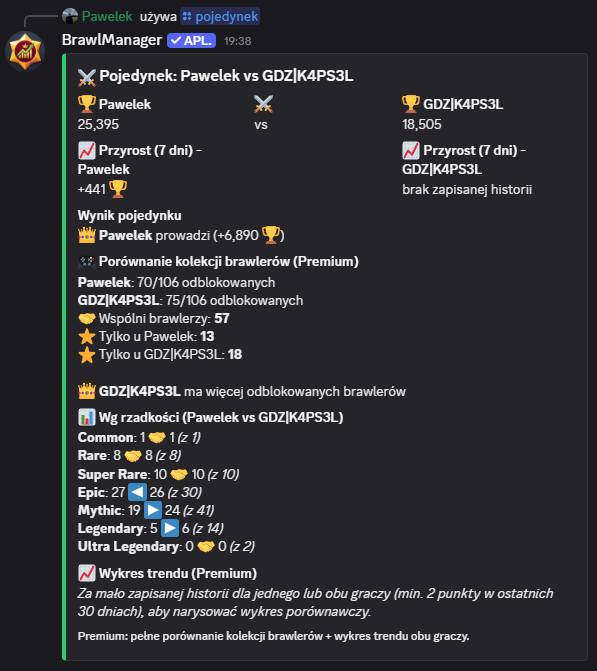
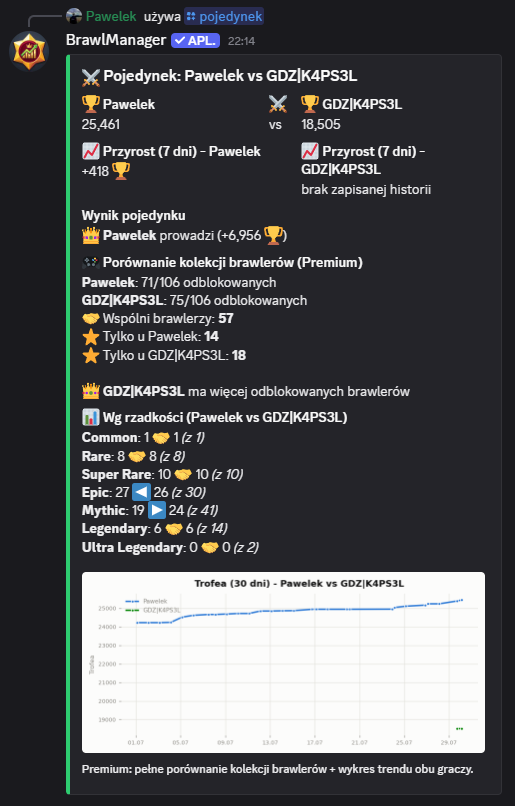
Fix EN nav pigulki, usun badge Nowosc, nowy zrzut /pojedynek Premium, opis hero PL
Co: pigulki "Jump to a command" na /Commands/ pokazuja teraz angielskie
slugi (nowe klucze i18n *_nav) zamiast polskich; usuniety badge "Nowosc"/
"New" (3 wystapienia + martwy klucz/CSS); podmieniony zrzut Premium /pojedynek
na nowy, z realnym wykresem; skrocony opis hero (PL) bez wzmianki o zaleglych
zrzutach EN - wartosc EN swiadomie nietknieta (zrzuty EN faktycznie jeszcze
nie sa live, wiec stary tekst tam nadal prawdziwy).

Claude-Session: https://claude.ai/code/session_017WigTiHYHNY3LLcapJgBC8

diff --git a/assets/komendy-page.js b/assets/komendy-page.js
@@ -54,9 +54,8 @@
             <div class="eyebrow" data-i18n="komendy.hero_eyebrow">🖥 Realny wygląd na Discordzie</div>
             <h1 data-i18n="komendy.hero_title">Wszystkie komendy — dokładnie tak, jak je zobaczysz</h1>
             <p data-i18n="komendy.hero_body">
-                Znajdziesz tu opis każdej komendy bota z realnymi zrzutami ekranu z Discorda. Wersja
-                angielska zrzutów jest w przygotowaniu — do tego czasu angielskie sekcje mają na razie
-                sam opis, oznaczony „📸 Zrzuty ekranu wkrótce”.
+                Znajdziesz tu opis każdej komendy wraz z zrzutami ekranu z Discorda. Komenda w wersji
+                free i premium pokazane są w obu wariantach.
             </p>
         </div>
     </section>
@@ -93,27 +92,27 @@
         </div>
         <div class="command-nav-collapsible" id="commandNavCollapsible">
         <div class="command-nav">
-            <a href="#sprawdz_puchary">/sprawdz_puchary</a>
-            <a href="#profil_bs">/profil_bs</a>
-            <a href="#brawlerzy">/brawlerzy</a>
-            <a href="#ranking_klanu">/ranking_klanu</a>
-            <a href="#moja_pozycja">/moja_pozycja</a>
-            <a href="#moj_cel">/moj_cel</a>
-            <a href="#moje_osiagniecia">/moje_osiagniecia</a>
-            <a href="#pojedynek">/pojedynek</a>
-            <a href="#historia_pucharow">/historia_pucharow</a>
-            <a href="#rotacja_map">/rotacja_map</a>
-            <a href="#support">/support</a>
-            <a href="#ustaw_klan">/ustaw_klan</a>
-            <a href="#ustaw_prog_pucharow">/ustaw_prog_pucharow</a>
-            <a href="#ustaw_role_rang">/ustaw_role_rang</a>
-            <a href="#ustaw_kanal_raportow">/ustaw_kanal_raportow</a>
-            <a href="#ustaw_kanal_rotacji">/ustaw_kanal_rotacji</a>
-            <a href="#ustaw_harmonogram_raportow">/ustaw_harmonogram_raportow</a>
-            <a href="#panel_weryfikacji">/panel_weryfikacji</a>
-            <a href="#czystka_klanu">/czystka_klanu</a>
-            <a href="#ustaw_wyglad">/ustaw_wyglad</a>
-            <a href="#ustaw_jezyk">/ustaw_jezyk</a>
+            <a href="#sprawdz_puchary" data-i18n="komendy.sprawdz_puchary_nav">/sprawdz_puchary</a>
+            <a href="#profil_bs" data-i18n="komendy.profil_bs_nav">/profil_bs</a>
+            <a href="#brawlerzy" data-i18n="komendy.brawlerzy_nav">/brawlerzy</a>
+            <a href="#ranking_klanu" data-i18n="komendy.ranking_klanu_nav">/ranking_klanu</a>
+            <a href="#moja_pozycja" data-i18n="komendy.moja_pozycja_nav">/moja_pozycja</a>
+            <a href="#moj_cel" data-i18n="komendy.moj_cel_nav">/moj_cel</a>
+            <a href="#moje_osiagniecia" data-i18n="komendy.moje_osiagniecia_nav">/moje_osiagniecia</a>
+            <a href="#pojedynek" data-i18n="komendy.pojedynek_nav">/pojedynek</a>
+            <a href="#historia_pucharow" data-i18n="komendy.historia_pucharow_nav">/historia_pucharow</a>
+            <a href="#rotacja_map" data-i18n="komendy.rotacja_map_nav">/rotacja_map</a>
+            <a href="#support" data-i18n="komendy.support_nav">/support</a>
+            <a href="#ustaw_klan" data-i18n="komendy.ustaw_klan_nav">/ustaw_klan</a>
+            <a href="#ustaw_prog_pucharow" data-i18n="komendy.ustaw_prog_pucharow_nav">/ustaw_prog_pucharow</a>
+            <a href="#ustaw_role_rang" data-i18n="komendy.ustaw_role_rang_nav">/ustaw_role_rang</a>
+            <a href="#ustaw_kanal_raportow" data-i18n="komendy.ustaw_kanal_raportow_nav">/ustaw_kanal_raportow</a>
+            <a href="#ustaw_kanal_rotacji" data-i18n="komendy.ustaw_kanal_rotacji_nav">/ustaw_kanal_rotacji</a>
+            <a href="#ustaw_harmonogram_raportow" data-i18n="komendy.ustaw_harmonogram_raportow_nav">/ustaw_harmonogram_raportow</a>
+            <a href="#panel_weryfikacji" data-i18n="komendy.panel_weryfikacji_nav">/panel_weryfikacji</a>
+            <a href="#czystka_klanu" data-i18n="komendy.czystka_klanu_nav">/czystka_klanu</a>
+            <a href="#ustaw_wyglad" data-i18n="komendy.ustaw_wyglad_nav">/ustaw_wyglad</a>
+            <a href="#ustaw_jezyk" data-i18n="komendy.ustaw_jezyk_nav">/ustaw_jezyk</a>
         </div>
         </div>
     </div>
@@ -168,7 +167,7 @@
                 <!-- /brawlerzy -->
                 <div class="command-block command-block--text-only" id="brawlerzy" data-has-shots="1">
                     <div class="command-block-copy">
-                        <div class="command-tag"><code data-i18n="komendy.brawlerzy_code">/brawlerzy [tag_gracza]</code> <span class="badge badge-new" data-i18n="common.badge_new">🆕 Nowość</span></div>
+                        <div class="command-tag"><code data-i18n="komendy.brawlerzy_code">/brawlerzy [tag_gracza]</code></div>
                         <p data-i18n="komendy.brawlerzy_desc">
                             Generuje obraz siatki wszystkich brawlerów w grze — odblokowani przez gracza kolorowo
                             (z odznaką rangi albo poziomem mocy w rogu), zablokowani wyszarzeni z ikoną kłódki.
@@ -247,7 +246,7 @@
                 <!-- /moje_osiagniecia -->
                 <div class="command-block command-block--text-only" id="moje_osiagniecia" data-has-shots="1">
                     <div class="command-block-copy">
-                        <div class="command-tag"><code data-i18n="komendy.moje_osiagniecia_code">/moje_osiagniecia [tag_gracza]</code> <span class="badge badge-new" data-i18n="common.badge_new">🆕 Nowość</span></div>
+                        <div class="command-tag"><code data-i18n="komendy.moje_osiagniecia_code">/moje_osiagniecia [tag_gracza]</code></div>
                         <p data-i18n="komendy.moje_osiagniecia_desc">Odznaki i osiągnięcia gracza w klanie, liczone automatycznie z historii bota — m.in. najdłuższa seria na plusie, rekordowy dzień, staż w klanie, % ukończenia kolekcji brawlerów, najlepszy tydzień i kamienie milowe rekordu trofeów. Całkowicie darmowe.</p>
                     </div>
                     <div class="command-block-shots" hidden>
@@ -472,7 +471,7 @@
                 <!-- /ustaw_jezyk -->
                 <div class="command-block command-block--text-only" id="ustaw_jezyk" data-has-shots="1">
                     <div class="command-block-copy">
-                        <div class="command-tag"><code data-i18n="komendy.ustaw_jezyk_code">/ustaw_jezyk [jezyk]</code> <span class="badge badge-new" data-i18n="common.badge_new">🆕 Nowość</span> <span class="badge badge-pending" data-i18n="common.badge_pending">📸 Zrzuty ekranu wkrótce</span></div>
+                        <div class="command-tag"><code data-i18n="komendy.ustaw_jezyk_code">/ustaw_jezyk [jezyk]</code> <span class="badge badge-pending" data-i18n="common.badge_pending">📸 Zrzuty ekranu wkrótce</span></div>
                         <p data-i18n="komendy.ustaw_jezyk_desc">Ustawia język odpowiedzi bota na tym serwerze — polski albo angielski (domyślnie polski). Wszystkie nazwy i opisy komend mają też natywną angielską lokalizację Discorda, niezależną od tego ustawienia.</p>
                     </div>
                     <div class="command-block-shots" hidden>
@@ -542,7 +541,7 @@
     "komendy.hero_eyebrow": { pl: "🖥 Realny wygląd na Discordzie", en: "🖥 The real look on Discord" },
     "komendy.hero_title": { pl: "Wszystkie komendy — dokładnie tak, jak je zobaczysz", en: "Every command — exactly as you'll see it" },
     "komendy.hero_body": {
-      pl: "Znajdziesz tu opis każdej komendy bota z realnymi zrzutami ekranu z Discorda. Wersja angielska zrzutów jest w przygotowaniu — do tego czasu angielskie sekcje mają na razie sam opis, oznaczony „📸 Zrzuty ekranu wkrótce”.",
+      pl: "Znajdziesz tu opis każdej komendy wraz z zrzutami ekranu z Discorda. Komenda w wersji free i premium pokazane są w obu wariantach.",
       en: "You'll find a description of every bot command here, with real Discord screenshots. English-language screenshots are still being recorded — until then, English sections just show a description, marked \"📸 Screenshots coming soon\".",
     },
     "komendy.info_note_body": {
@@ -562,6 +561,7 @@
     "komendy.lightbox_close_aria": { pl: "Zamknij podgląd zrzutu ekranu", en: "Close screenshot preview" },
 
     "komendy.sprawdz_puchary_code": { pl: "/sprawdz_puchary [tag_gracza]", en: "/check_trophies [player_tag]" },
+    "komendy.sprawdz_puchary_nav": { pl: "/sprawdz_puchary", en: "/check_trophies" },
     "komendy.sprawdz_puchary_desc": {
       pl: "Sprawdza, czy gracz spełnia próg pucharowy tego serwera i czy należy do przypisanego klanu.",
       en: "Checks whether a player meets this server's trophy threshold and belongs to the linked clan.",
@@ -576,24 +576,28 @@
     },
 
     "komendy.profil_bs_code": { pl: "/profil_bs [tag_gracza]", en: "/bs_profile [player_tag]" },
+    "komendy.profil_bs_nav": { pl: "/profil_bs", en: "/bs_profile" },
     "komendy.profil_bs_desc": {
       pl: "Karta gracza: poziom, rekordowe trofea, zwycięstwa i top 3 brawlery. Premium dorzuca dodatkowe pole z progresem od pierwszego dnia śledzenia historii.",
       en: "Player card: level, record trophies, wins, and top 3 brawlers. Premium adds an extra field showing progress since the first day of tracked history.",
     },
 
     "komendy.brawlerzy_code": { pl: "/brawlerzy [tag_gracza]", en: "/brawlers [player_tag]" },
+    "komendy.brawlerzy_nav": { pl: "/brawlerzy", en: "/brawlers" },
     "komendy.brawlerzy_desc": {
       pl: "Generuje obraz siatki wszystkich brawlerów w grze — odblokowani przez gracza kolorowo (z odznaką rangi albo poziomem mocy w rogu), zablokowani wyszarzeni z ikoną kłódki. Menu pod obrazkiem pozwala przesortować siatkę wg rangi, poziomu mocy, rzadkości albo najwyższych trofeów. Całkowicie darmowe.",
       en: "Generates an image grid of every brawler in the game — the ones the player has unlocked shown in color (with a rank badge or power level in the corner), locked ones grayed out with a lock icon. A menu under the image lets you re-sort the grid by rank, power level, rarity, or highest trophies. Completely free.",
     },
 
     "komendy.ranking_klanu_code": { pl: "/ranking_klanu", en: "/clan_top" },
+    "komendy.ranking_klanu_nav": { pl: "/ranking_klanu", en: "/clan_top" },
     "komendy.ranking_klanu_desc": {
       pl: "Pokazuje pierwszą dziesiątkę klanu posortowaną wg trofeów, wg tagu klanu skonfigurowanego przez admina (<code>/ustaw_klan</code>).",
       en: "Shows the clan's top 10 sorted by trophies, based on the clan tag configured by the admin (<code>/set_clan</code>).",
     },
 
     "komendy.moja_pozycja_code": { pl: "/moja_pozycja [tag_gracza]", en: "/my_rank [player_tag]" },
+    "komendy.moja_pozycja_nav": { pl: "/moja_pozycja", en: "/my_rank" },
     "komendy.moja_pozycja_desc": {
       pl: "Twoja aktualna pozycja w rankingu klanu wg aktualnych trofeów i dystans do osoby bezpośrednio wyżej.",
       en: "Your current position in the clan ranking by current trophies, and the gap to the player directly above you.",
@@ -608,6 +612,7 @@
     },
 
     "komendy.moj_cel_code": { pl: "/moj_cel [tag_gracza] [cel_puchary]", en: "/my_goal [player_tag] [goal_trophies]" },
+    "komendy.moj_cel_nav": { pl: "/moj_cel", en: "/my_goal" },
     "komendy.moj_cel_desc": {
       pl: "Ustawia Twój osobisty cel pucharowy i pokazuje pasek postępu (kolor paska/embeda zależny od % ukończenia) oraz zmianę od wczoraj.",
       en: "Sets your personal trophy goal and shows a progress bar (bar/embed color depends on % completion) plus the change since yesterday.",
@@ -622,12 +627,14 @@
     },
 
     "komendy.moje_osiagniecia_code": { pl: "/moje_osiagniecia [tag_gracza]", en: "/my_achievements [player_tag]" },
+    "komendy.moje_osiagniecia_nav": { pl: "/moje_osiagniecia", en: "/my_achievements" },
     "komendy.moje_osiagniecia_desc": {
       pl: "Odznaki i osiągnięcia gracza w klanie, liczone automatycznie z historii bota — m.in. najdłuższa seria na plusie, rekordowy dzień, staż w klanie, % ukończenia kolekcji brawlerów, najlepszy tydzień i kamienie milowe rekordu trofeów. Całkowicie darmowe.",
       en: "A player's badges and achievements in the clan, calculated automatically from the bot's history — including longest positive streak, record day, time in the clan, brawler collection completion %, best week, and trophy record milestones. Completely free.",
     },
 
     "komendy.pojedynek_code": { pl: "/pojedynek [tag_gracza_1] [tag_gracza_2]", en: "/duel [player_tag_1] [player_tag_2]" },
+    "komendy.pojedynek_nav": { pl: "/pojedynek", en: "/duel" },
     "komendy.pojedynek_desc": {
       pl: "Porównanie 1:1 dwóch graczy klanu — aktualne trofea, kto prowadzi i przyrost z ostatniego tygodnia każdego z nich.",
       en: "A 1:1 comparison of two clan members — current trophies, who's leading, and each player's gain from the last week.",
@@ -642,78 +649,91 @@
     },
 
     "komendy.historia_pucharow_code": { pl: "/historia_pucharow [zakres_dni] [tag_gracza]", en: "/trophy_history [day_range] [player_tag]" },
+    "komendy.historia_pucharow_nav": { pl: "/historia_pucharow", en: "/trophy_history" },
     "komendy.historia_pucharow_desc": {
       pl: "Trend trofeów dowolnego gracza z klanu z ostatnich 7 lub 30 dni — tekstowy sparkline w embedzie plus prawdziwy wykres liniowy PNG. Dorzuca też prognozę osiągnięcia progu klanowego i pozycję gracza w klanie w tym oknie czasowym.",
       en: "Trophy trend for any clan member over the last 7 or 30 days — a text sparkline in the embed plus a real PNG line chart. Also adds a forecast for hitting the clan threshold and the player's position in the clan over that time window.",
     },
 
     "komendy.rotacja_map_code": { pl: "/rotacja_map", en: "/map_rotation" },
+    "komendy.rotacja_map_nav": { pl: "/rotacja_map", en: "/map_rotation" },
     "komendy.rotacja_map_desc": {
       pl: 'Pokazuje na żądanie aktualną rotację map i trybów gry Brawl Stars — ta sama tabela, co na <a href="/Mapy/">stronie z mapami</a>, tylko wprost na Discordzie.',
       en: 'Shows the current Brawl Stars map and mode rotation on demand — the same table as on the <a href="/Mapy/">maps page</a>, just directly on Discord.',
     },
 
     "komendy.support_code": { pl: "/support", en: "/support" },
+    "komendy.support_nav": { pl: "/support", en: "/support" },
     "komendy.support_desc": {
       pl: "Krótkie info o bocie, pierwsze kroki dla admina i przycisk-link do serwera wsparcia.",
       en: "Quick info about the bot, first steps for admins, and a button linking to the support server.",
     },
 
     "komendy.ustaw_klan_code": { pl: "/ustaw_klan [nowy_tag_klanu]", en: "/set_clan [clan_tag]" },
+    "komendy.ustaw_klan_nav": { pl: "/ustaw_klan", en: "/set_clan" },
     "komendy.ustaw_klan_desc": {
       pl: "Powiązuje ten serwer Discord z konkretnym klanem Brawl Stars i od razu zapisuje pierwszy punkt historii pucharów wszystkich jego członków.",
       en: "Links this Discord server to a specific Brawl Stars clan and immediately saves the first trophy history point for all its members.",
     },
 
     "komendy.ustaw_prog_pucharow_code": { pl: "/ustaw_prog_pucharow [nowe_puchary]", en: "/set_trophy_threshold [new_trophy_count]" },
+    "komendy.ustaw_prog_pucharow_nav": { pl: "/ustaw_prog_pucharow", en: "/set_trophy_threshold" },
     "komendy.ustaw_prog_pucharow_desc": {
       pl: "Ustawia minimalny próg pucharowy wymagany na tym serwerze — używany przez <code>/sprawdz_puchary</code>, panel weryfikacji i <code>/czystka_klanu</code>.",
       en: "Sets the minimum trophy threshold required on this server — used by <code>/check_trophies</code>, the verification panel, and <code>/clan_cleanup</code>.",
     },
 
     "komendy.ustaw_role_rang_code": { pl: "/ustaw_role_rang [ranga_z_gry] [nowa_nazwa_discord]", en: "/set_rank_role [game_rank] [discord_role]" },
+    "komendy.ustaw_role_rang_nav": { pl: "/ustaw_role_rang", en: "/set_rank_role" },
     "komendy.ustaw_role_rang_desc": {
       pl: "Dopasowuje nazwę roli Discord do konkretnej rangi klanowej (member / senior / vicePresident / president). Odpowiedź widoczna tylko dla admina.",
       en: "Maps a Discord role name to a specific clan rank (member / senior / vicePresident / president). The response is only visible to the admin.",
     },
 
     "komendy.ustaw_kanal_raportow_code": { pl: "/ustaw_kanal_raportow [kanal]", en: "/set_report_channel [channel]" },
+    "komendy.ustaw_kanal_raportow_nav": { pl: "/ustaw_kanal_raportow", en: "/set_report_channel" },
     "komendy.ustaw_kanal_raportow_desc": {
       pl: "Ustawia kanał, na który trafiają automatyczne raporty tygodniowe i miesięczne. Bot sam sprawdza, czy ma uprawnienia do pisania i linkowania embedów na wybranym kanale.",
       en: "Sets the channel that receives automatic weekly and monthly reports. The bot checks on its own whether it has permission to post and embed links in the chosen channel.",
     },
 
     "komendy.ustaw_kanal_rotacji_code": { pl: "/ustaw_kanal_rotacji [kanal]", en: "/set_rotation_channel [channel]" },
+    "komendy.ustaw_kanal_rotacji_nav": { pl: "/ustaw_kanal_rotacji", en: "/set_rotation_channel" },
     "komendy.ustaw_kanal_rotacji_desc": {
       pl: "Ustawia kanał powiadomień o zmianie mapy w rotacji Brawl Stars (funkcja darmowa, opt-in).",
       en: "Sets the channel for Brawl Stars map rotation change notifications (a free, opt-in feature).",
     },
 
     "komendy.ustaw_harmonogram_raportow_code": { pl: "/ustaw_harmonogram_raportow [dzien] [godzina]", en: "/set_report_schedule [day] [hour]" },
+    "komendy.ustaw_harmonogram_raportow_nav": { pl: "/ustaw_harmonogram_raportow", en: "/set_report_schedule" },
     "komendy.ustaw_harmonogram_raportow_desc": {
       pl: "Ustala dzień tygodnia i godzinę, o której wysyłany jest automatyczny raport tygodniowy.",
       en: "Sets the day of the week and hour when the automatic weekly report is sent.",
     },
 
     "komendy.panel_weryfikacji_code": { pl: "/panel_weryfikacji", en: "/verification_panel" },
+    "komendy.panel_weryfikacji_nav": { pl: "/panel_weryfikacji", en: "/verification_panel" },
     "komendy.panel_weryfikacji_desc": {
       pl: "Wysyła panel z przyciskiem, dzięki któremu członkowie sami się zweryfikują (otwiera formularz na tag z gry).",
       en: "Sends a panel with a button that lets members verify themselves (opens a form for their in-game tag).",
     },
 
     "komendy.czystka_klanu_code": { pl: "/czystka_klanu", en: "/clan_cleanup" },
+    "komendy.czystka_klanu_nav": { pl: "/czystka_klanu", en: "/clan_cleanup" },
     "komendy.czystka_klanu_desc": {
       pl: "Lista członków klanu, którzy są poniżej ustawionego progu pucharowego — gotowa do przejrzenia przed ewentualnym wyrzuceniem z klanu w grze.",
       en: "A list of clan members who are below the configured trophy threshold — ready to review before removing anyone from the clan in-game.",
     },
 
     "komendy.ustaw_wyglad_code": { pl: "/ustaw_wyglad [komenda]", en: "/set_appearance [command]" },
+    "komendy.ustaw_wyglad_nav": { pl: "/ustaw_wyglad", en: "/set_appearance" },
     "komendy.ustaw_wyglad_desc": {
       pl: "Kolor embedów bota. W wersji darmowej wystarczy wywołać komendę bez żadnych parametrów — kolor obejmie wszystkie embedy naraz. W Premium można dodatkowo wybrać (z podpowiadanej listy) jedną z kilkunastu pojedynczych komend bota i ustawić dla niej osobny kolor. Otwiera listę wyboru z 16 kolorami.",
       en: "The bot's embed color. In the free version, just run the command with no parameters — the color applies to every embed at once. Premium lets you additionally pick (from an autocomplete list) one of over a dozen individual bot commands and set a separate color for it. Opens a picker with 16 colors.",
     },
 
     "komendy.ustaw_jezyk_code": { pl: "/ustaw_jezyk [jezyk]", en: "/set_language [language]" },
+    "komendy.ustaw_jezyk_nav": { pl: "/ustaw_jezyk", en: "/set_language" },
     "komendy.ustaw_jezyk_desc": {
       pl: "Ustawia język odpowiedzi bota na tym serwerze — polski albo angielski (domyślnie polski). Wszystkie nazwy i opisy komend mają też natywną angielską lokalizację Discorda, niezależną od tego ustawienia.",
       en: "Sets the bot's response language on this server — Polish or English (Polish by default). Every command name and description also has native English Discord localization, independent of this setting.",

diff --git a/assets/i18n.js b/assets/i18n.js
@@ -66,7 +66,6 @@
     },
     "common.badge_premium": { pl: "🔒 Premium", en: "🔒 Premium" },
     "common.badge_partial_premium": { pl: "🔒 częściowo Premium", en: "🔒 partially Premium" },
-    "common.badge_new": { pl: "🆕 Nowość", en: "🆕 New" },
     "common.badge_pending": { pl: "📸 Zrzuty ekranu wkrótce", en: "📸 Screenshots coming soon" },
     "common.back_home": { pl: "← Wróć do strony głównej", en: "← Back to homepage" },
   };

diff --git a/assets/style.css b/assets/style.css
@@ -402,12 +402,6 @@ section.alt {
   color: #c4b5fd;
 }
 
-.badge-new {
-  background: rgba(52, 211, 153, 0.14);
-  border-color: rgba(52, 211, 153, 0.4);
-  color: var(--green);
-}
-
 /* Marks a command-block whose Discord screenshots are stale (pre-redesign UI)
    and were pulled pending a fresh capture - see .command-block--text-only,
    used together on the same blocks (2026-07-22 screenshot removal pass). */
